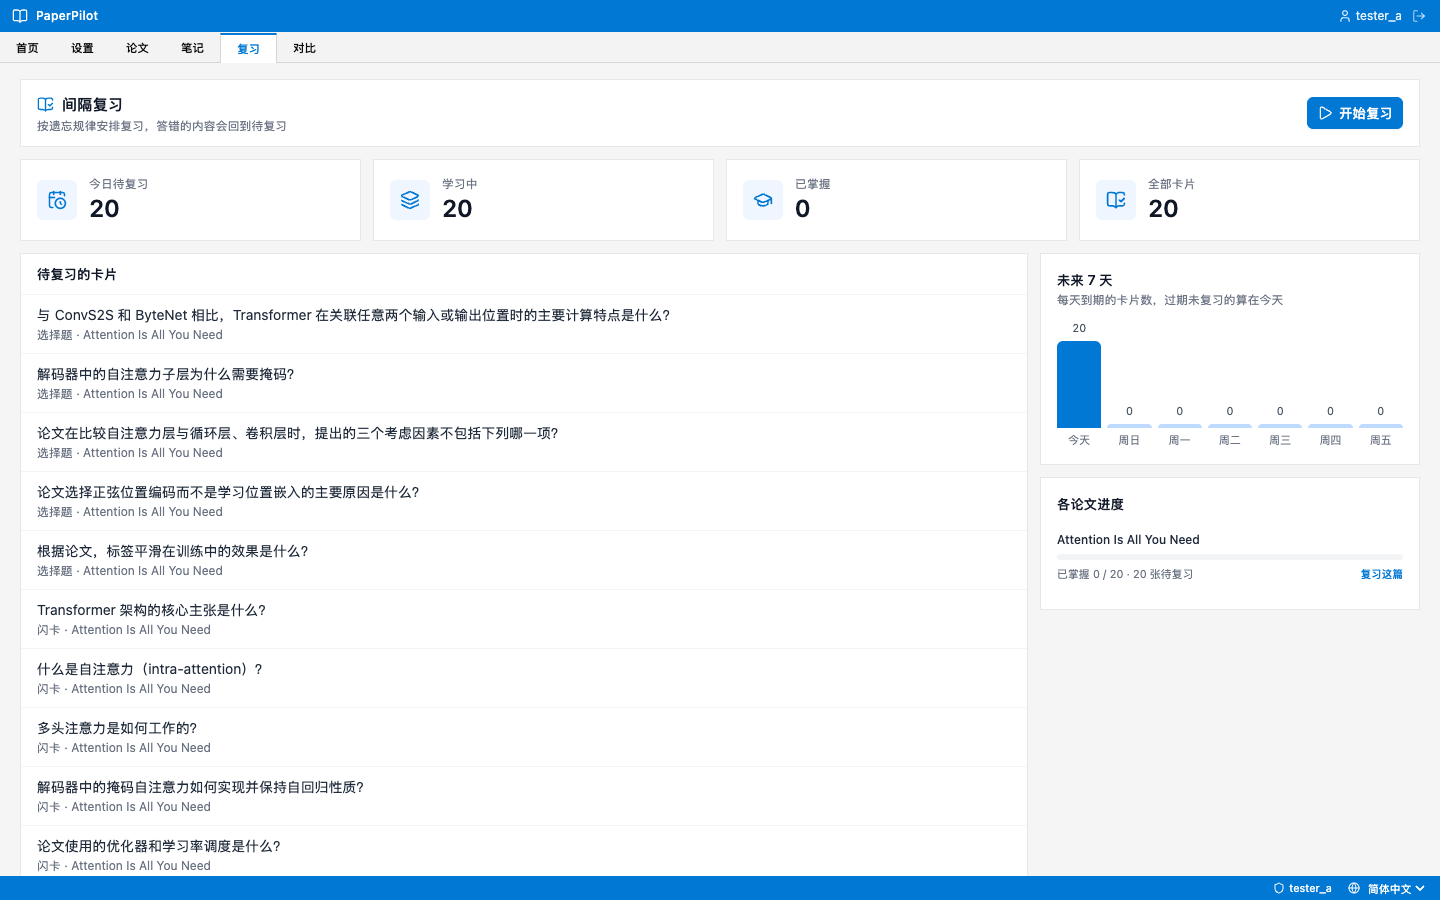
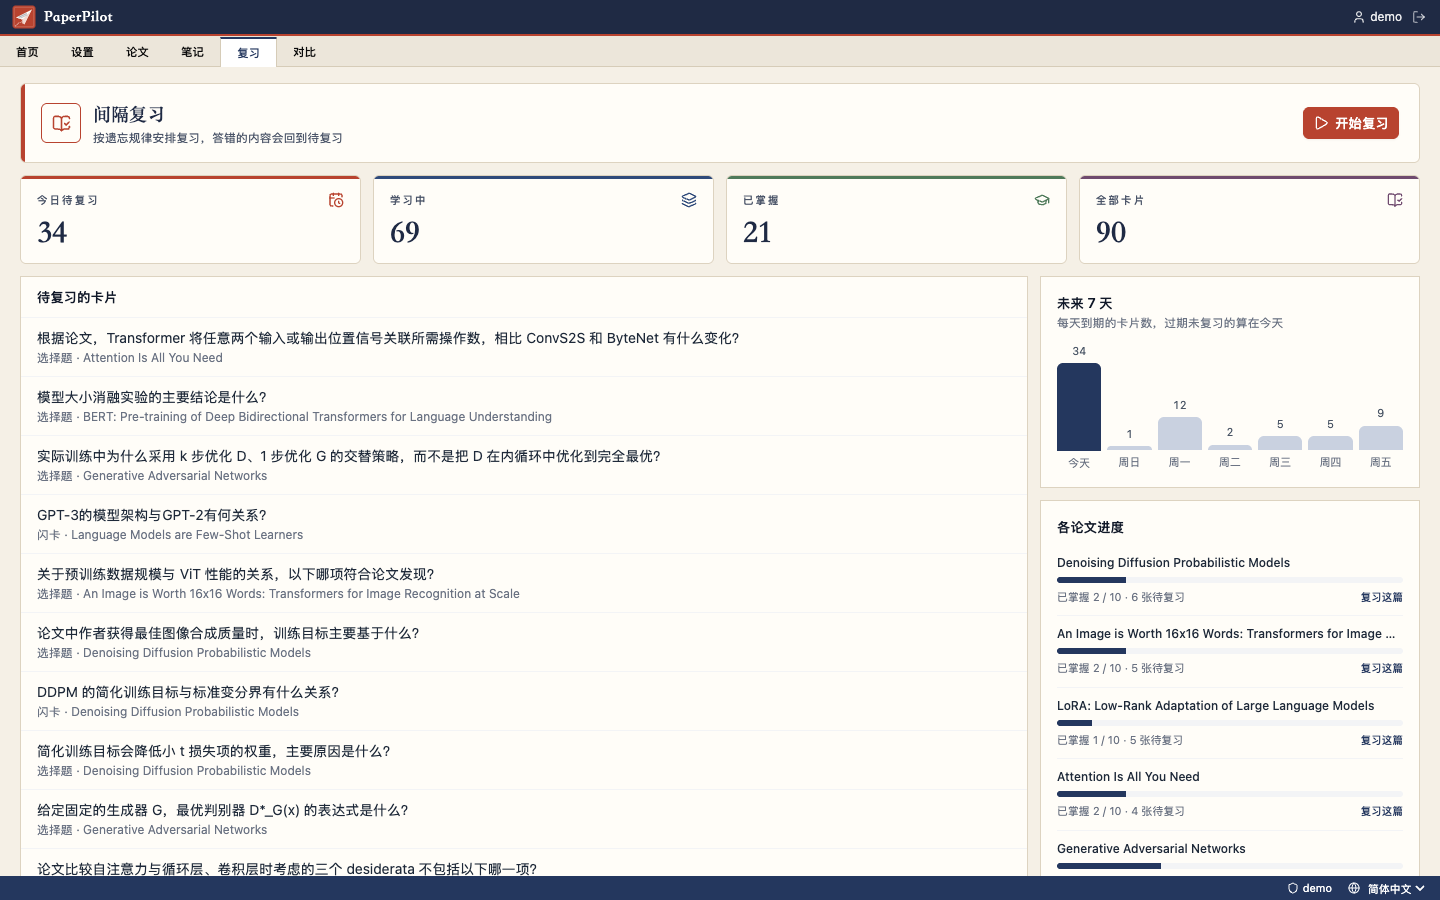
docs: 用改版后的界面和演示数据更新截图与说明
原因：界面改为学术期刊风格后，用户手册中的 18 张截图和看板说明都已经过时。

改动：
- docs/images 下 18 张截图全部重拍，使用演示账号的数据（14 篇论文、真实生成的导读、
  术语表、卡片、笔记和问答），文件名不变
- 用户手册：增加界面风格和图标说明，按新看板重写“学习看板”一节（阅读日志、书架、
  研究方向、复习计划、最近笔记），说明论文封面上的状态标记，截图来源改为演示数据
- 概要设计：学习看板的组件清单更新，新增 7.4 “界面风格”（颜色、字体、元素、图标规范）

验证：
- 截图脚本按“只读页面在前、会改动数据的页面在后”的顺序拍摄，全程没有页面报错；
  拍完后重新运行演示数据脚本，恢复被阅读页和复习操作改动的进度
- 逐张查看看板、阅读与问答、对比、复习完成等截图，内容为加载完成后的页面
- docs 中 11 张 Mermaid 图重新渲染，全部成功

Refs #28

diff --git a/docs/07-user-manual.md b/docs/07-user-manual.md
@@ -1,6 +1,6 @@
 # 用户手册
 
-本手册介绍如何安装 PaperPilot，以及各项功能的使用方法。截图来自 2026-11-07 的系统测试，AI 内容由 DeepSeek `deepseek-flash` 实际生成。
+本手册介绍如何安装 PaperPilot，以及各项功能的使用方法。截图使用 `scripts/seed_demo.py` 生成的演示数据，AI 内容由 DeepSeek `deepseek-flash` 实际生成。
 
 ## 1. 安装与启动
 
@@ -59,6 +59,8 @@ docker compose up -d --build
 
 ## 2. 界面概览
 
+界面采用学术期刊风格：米白纸张底色，墨蓝和朱砂红为主色，标题使用衬线字体。左上角的图标是朱砂印章里一张对折成纸飞机的论文页。
+
 页面顶部是 Ribbon 标签栏：**首页**（学习看板）、**设置**（个人信息）、**论文**（论文库）、**笔记**、**复习**、**对比**；打开一篇论文时会多出 **阅读** 标签。右上角显示当前用户和退出按钮，右下角状态栏可以切换中文和英文。
 
 ## 3. 注册与登录
@@ -75,9 +77,12 @@ docker compose up -d --build
 
 登录后进入首页，可以看到：
 
-- 论文库总数、在读、已读、笔记和待复习的数量；
+- **阅读日志**：问候语、今天待复习的卡片数、已读论文数和笔记数，下方的进度尺显示已读论文占论文库的比例；“继续阅读”打开最近在读的论文，“开始复习”进入复习页。
+- **我的书架**：论文库中的每篇论文是一本书脊，颜色代表研究方向（第一个标签），挂红色书签的是正在读的论文，点击书脊直接打开。
+- 论文库总数、在读、已读、笔记和待复习的数量，点击可以进入对应页面；
 - 最近 14 天的学习活动：每天活跃的论文数和新增笔记数；
-- 继续阅读：最近在读的论文和上次读到的页，点击直接打开。
+- 研究方向分布：每篇论文按第一个标签归类，显示数量和占比；
+- 继续阅读、未来 7 天的复习计划和最近 4 条笔记。
 
 ## 5. 论文库
 
@@ -99,6 +104,8 @@ docker compose up -d --build
 | 全文已解析 | 可以使用全部功能 |
 | 没有提取到文字 | 通常是扫描版 PDF，AI 只能基于摘要回答 |
 | 全文解析失败 | 文件可能损坏或加密。上传者可以点击“重新解析” |
+
+论文卡片采用期刊封面样式：封面颜色对应研究方向，显示年份和解析状态（可问答、解析中、仅摘要、解析失败、外链）。
 
 ### 5.2 搜索与在线检索
 

diff --git a/docs/02-architecture.md b/docs/02-architecture.md
@@ -90,7 +90,7 @@ flowchart TB
 | 页面 | 路由 | 主要组件 |
 | :--- | :--- | :--- |
 | 登录 / 注册 | `/auth/sign-in`、`/auth/sign-up` | `routes/auth` |
-| 学习看板 | `/` | `StatCard`、`ActivityChart` |
+| 学习看板 | `/` | `WelcomeHero`（阅读日志与书架）、`StatCard`、`ActivityChart`、`TopicChart`、复习计划、最近笔记 |
 | 论文库 | `/papers` | 上传对话框、在线检索、`useSaveGlobalPaper` |
 | 论文详情 | `/papers/:id` | 左侧 `PdfReader`、`HighlightLayer`、`SelectionToolbar`；右侧标签页：问答 `PaperAssistant`、导读 `PaperGuide`、笔记 `NotesPanel`、自测 `StudyPanel`、术语 `PaperGlossary`、参考文献 `ReferencesPanel`、信息 |
 | 我的笔记 | `/notes` | `NoteItem`、`HighlightItem`、`ExportLink` |
@@ -269,6 +269,17 @@ stateDiagram-v2
 
 论文由上传者管理，其他用户只能阅读；删除论文时数据库外键级联删除所有关联数据。
 
-### 7.4 国际化
+### 7.4 界面风格
+
+界面借用学术期刊的视觉语言，避免常见的渐变和毛玻璃效果：
+
+| 项目 | 规范 |
+| :--- | :--- |
+| 颜色 | 米白纸张底色 `--paper`，墨蓝 `--ink` 为主色，朱砂红 `--vermilion` 点缀，研究方向等分类使用 `utils/palette.ts` 中的六种低饱和颜色，同一标签在各处颜色一致 |
+| 字体 | 标题和数字使用衬线字体（Noto Serif SC / 宋体），正文使用无衬线字体 |
+| 元素 | 小圆角、细边框、色条和双线代替阴影与渐变；`PageHeader`、`StatCard` 统一页头和统计卡片 |
+| 图标 | `src/assets/logo.svg`：朱砂印章里一张对折成纸飞机的论文页，同时作为网站图标 |
+
+### 7.5 国际化
 
 前端使用 react-intl，文案放在 `src/i18n/messages/zh-CN.ts` 和 `en.ts`。导读、术语表、学习卡片的生成请求带上 `lang`，按语言分别缓存。
